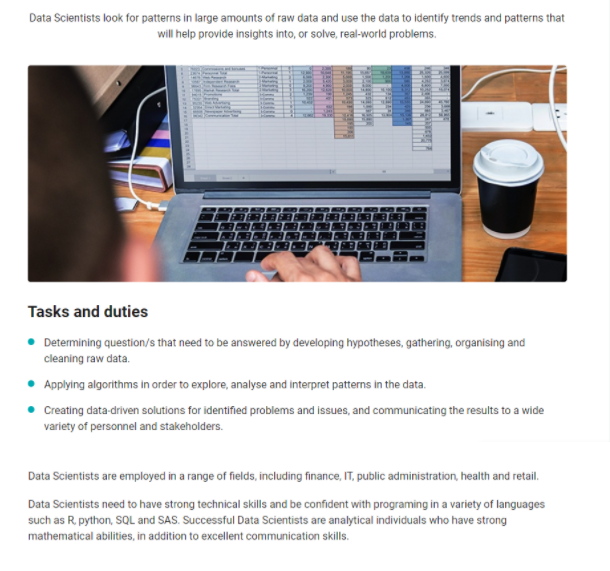
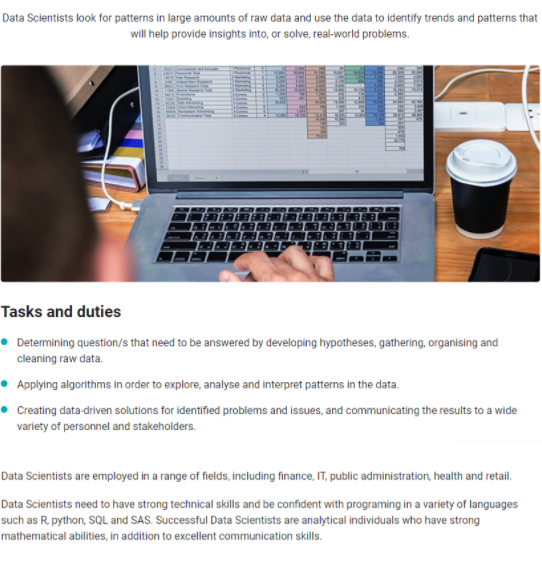
further page layout fixes

diff --git a/projectidea.html b/projectidea.html
@@ -1,39 +1,46 @@
+<html>
 <body>
   <h1> What's my project idea? </h1>
-  <p>My project is to create an atmosphere generator. This will generally be used for the sake of mental health and relaxation, and will work primarily through stimulation of one’s hearing, and potentially sight and touch. The atmosphere generator will most likely take on a form similar to that of common voice-activated speakers such as the Google Home, or the Echo Dot, and will have similar permissions related to smart home technology, such as access to lights and windows/glass to accomplish its task. Additionally, it will have access to its users vitals, and multiple users will each have their own profile registered. The most attractive point of this product should be its ability to generate atmosphere profiles unique to its user’s needs and preferences, and to negate unpleasant stimuli through noise cancellation or distraction.
+  <p><canvas id="myCanvas" width="200" height="2000" style="float:left;"></canvas><canvas id="myCanvas" width="200" height="2000" style="float:right;"></canvas>
+My project is to create an atmosphere generator. This will generally be used for the sake of mental health and relaxation, and will work primarily through stimulation of one’s hearing, and potentially sight and touch. The atmosphere generator will most likely take on a form similar to that of common voice-activated speakers such as the Google Home, or the Echo Dot, and will have similar permissions related to smart home technology, such as access to lights and windows/glass to accomplish its task. Additionally, it will have access to its users vitals, and multiple users will each have their own profile registered. The most attractive point of this product should be its ability to generate atmosphere profiles unique to its user’s needs and preferences, and to negate unpleasant stimuli through noise cancellation or distraction.
+<br><br><br>
 </p>
 <h2> What for? </h2>
 <p>Mental health disorders are extremely common, with some reports stating that up to a third of any population will experience an anxiety disorder at some point of their life. Despite this, the most optimistic statistics demonstrate that only a third of these people will report their symptoms, with the most grave reports stating that only a tenth of people will admit to their sufferings. This doesn’t even include other mental health issues such as depression, or conditions such as autism that can induce similar stress upon an individual.
-<br>
+<br><br><br>
 The amount of stigma revolving around mental health has resulted in a population that is afraid of admitting that they are unwell, that they need professional treatment. This product, while not being a form of professional help, aims to soothe the ails of those who recognise their mental health is dipping in quality. By creating a sense of familiarity and thus comfort for its user, and cancelling out sources of agitation in the environment, this product aims to be an anchoring point for those who feel as though the currents of the world are overwhelming them.
+<br><br><br>
 </p>
-<h3> Exactly what will it do? </h3>
+<h2> Exactly what will it do? </h2>
 <p>The product will generate ambience and visual stimuli to create an atmosphere for its user. The audio aspect will initially only have a default series of ambient stimuli, a selection of noises and sounds that are commonly appreciated by those who utilise ambient therapy. Potential candidates for these default options include but are not limited to rainfall, ocean sounds, forest sounds and basic white noise. Both speaker and headphones are options for this component.
-<br>
+<br><br><br>
 As the product is used, it will introduce slight variations on the sounds, branching from what is commonly selected, along with what can be heard in the room/environment it has been placed in, and identify what kinds of variations create the best results in its users vitals for the sake of relaxation. For example, if a user’s most frequently selected options are rainfall and forest sounds, it will learn to merge the two kinds of sounds to create something akin to a rainforest. If the user selects white noise the most often, it may start leaning into more non-diegetic sound types, such as different sources of white noise, or even music.
-<br>
+<br><br><br>
 The user can also choose to introduce their own sound samples, acoustically or digitally, to accelerate the development of their sound profile, or to override the direction it grows in. These variations will be remembered and stored, and it will aim to constantly develop these noises to further the effectiveness of the ambient therapy. This means that not only will it become more effective as it sees more use, but that it will also have a natural variation to the sounds that would not be found in the noise samples that one might find on an online ambient therapy site.
-<br>
+<br><br><br>
 To complement the sound whitelist, even when not being used to actively generate an atmosphere, the user can have it switch modes to make entries to a sound blacklist. This mode will listen to the types of sounds that the user experiences in their day-to-day life, and will remember what kinds of noises generate anxiety by recognising patterns and correlations between certain sound profiles and agitation in the user’s vitals. When it develops a profile of blacklisted sound profiles, it will modulate its own ambience by avoiding these types of sounds, and introducing sounds that will negate anxiety-inducing environmental stimuli through frequency/sound wave theory.
-<br>
+<br><br><br>
 By remembering and storing these atmospheric profiles that cater to an individuals needs, it develops a sense of familiarity. It also provides a sense of effortless control, in that it detects what the individual’s needs are, while also respecting any foreign customisations that the user actively chooses to introduce. Familiarity and a sense of control in the way this product’s stimuli changes and develops over time are the cornerstones in this product’s ability to complete its task.
-<br>
+<br><br><br>
 It will also have a 360 degree projector on it, displaying slow-moving visuals on the walls of the room. This can be activated independently from the sound generating component. This can serve those who are particularly receptive to visual stimuli. Additional modifications to its atmospheric manipulation can be present if it has access to smart home features. By reading the oxygen levels, temperature, and light levels of the room, it can adjust various parts of the home such as lights and windows to augment the immersiveness of the atmosphere it generates, or to bring greater comfort to its user.
-<br>
+<br><br><br>
 While this product may initially feel lacklustre and require effort to set up, its ability to learn should result in an experience that continues to improve with every use.
+<br><br><br>
 </p>
-<h4> What would I need to complete this project? </h4>
+<h2> What would I need to complete this project? </h2>
 <p>
 For this product to function, it would require artificial intelligence for its core function, along with a powerful speaker and high quality headphone jack, along with a sensitive microphone. A projector would be required for the visual component, along with the various metric readers for it to detect vitals and room conditions. It would need to have access to some kind of database for it to store its user and sound profiles, along with access to a large bank of sounds to play. Internet access would most likely be required for this product to be remotely practical, considering the vast range of sounds it could potentially need to play.
-<br>
+<br><br><br>
 Thorough understanding of the way machine learning and AI works would be fundamental to this speaker’s ability to adapt and cater to individual tastes and preferences. A thorough grasp on the theory behind soundwaves and the way different frequencies interact with each other, for the sake of cancelling out sounds, or to work in tandem with one another, will also be important knowledge to avoid dissonance and careless generation of sounds that could potentially cause greater disturbance in the user. More importantly, I’d have to know how to introduce this knowledge to the AI. Knowing how to connect this device to the internet, and teaching it to recognise different categories of sounds will also be required.
-<br>
+<br><br><br>
 While artificial intelligence and machine learning are not particularly foreign concepts nowadays, the complexity of this project will most likely require special efforts beyond a standard Information Technology course. For the soundbank, collaboration with a preexisting one may be a viable option.
+<br><br><br>
 </p>
-<h5> What do I hope to achieve with this? </h5>
+<h2> What would this accomplish? </h2>
 <p>
 If such a project were to be successful, people who use it would find their overall mental health improving. People could use this to help themselves regain their footing when overwhelmed by their surroundings, reducing symptoms of anxiety disorders and acting as a counter to those who find themselves becoming too neurotic, even if they didn’t feel that they were “suffering enough” to seek professional help.
-<br>
+<br><br><br>
 The strength in this as a form of therapy comes from the fact that it does not imply judgement in the way a living, breathing human might have. People who are not yet able to overcome their fears of being judged for seeking help from professionals will find comfort in the balanced neutrality of a machine. This first step in self care may be enough to help users realise that they do deserve help and care from other people as well, and potentially raise the amount of people willing to report their illnesses.
 </p>
 </body>
+</html>

diff --git a/idealjob.html b/idealjob.html
@@ -1,16 +1,22 @@
 <html>
 <body>
   <h1> My Ideal Job </h1>
-  <p><canvas id="myCanvas" width="200" height="2000" style="float:left;"></canvas><canvas id="myCanvas" width="200" height="2000" style="float:right;"></canvas>
+  <p><canvas id="myCanvas" width="200" height="1350" style="float:left;"></canvas><canvas id="myCanvas" width="200" height="1350" style="float:right;"></canvas>
 
     My ideal job would be as a data scientist.
+    </p>
     <br>
     <img src="DataScientist.png">
     <br>
+    <h2>What does a data scientist do?</h2>
+    <p><br>
     As a data scientist, you’re looking at numbers that have an actual place in the real world, analysing figures that have a tangible presence, affect each other, and affect numbers you didn’t even know you were supposed to look at in the first place. High schoolers always complain about the lack of real world application in maths. Myself included.
 <br><br><br>
-As a data scientist, you’re coming up with reasons for certain trends by reading numbers. You have to know what values to pay attention to, if you want to get the right conclusion. You become part of the brain of your organisation, tell them what’s happening, why they’re succeeding, why they’re failing, what people like and what they dislike. The analysis-heavy aspect alone is extremely attractive to me, and that there is an actual problem-solving component coupled with the reading part makes it even better.
+Part of the job is generating hypotheses for certain trends by reading numbers. You have to know what values to pay attention to, if you want to get the right conclusion. You become part of the brain of your organisation, tell them what’s happening, why they’re succeeding, why they’re failing, what people like and what they dislike. The analysis-heavy aspect alone is extremely attractive to me, and that there is an actual problem-solving component coupled with the reading part makes it even better.
 <br><br><br>
+</p>
+<h2>What does it take to be a data scientist?</h2>
+<p><br>
 As a data scientist, basic computer literacy is no longer enough. Proficiency in programming with a large variety of languages is required to accomplish your tasks, whether that’s to code something to help you gather your data, or even just understanding the language your database runs with. Additionally, there is a bonus to having a strong foundation in mathematics and the ability to deliver information in a manner that is digestible to an audience that may not necessarily have the same fluency in the topic.
 <br><br><br>
 Other skills that employers will look for in a data scientist include fluency with cloud computing, the ability to create statistical models, and potentially understanding of the workings behind machine learning.

diff --git a/interestinit.html b/interestinit.html
@@ -1,7 +1,9 @@
 <html>
 <body>
   <h1> My Interest in IT </h1>
-  <p><canvas id="myCanvas" width="200" height="2000" style="float:left;"></canvas><canvas id="myCanvas" width="200" height="2000" style="float:right;"></canvas>
+  <canvas id="myCanvas" width="200" height="1000" style="float:left;"></canvas><canvas id="myCanvas" width="200" height="1000" style="float:right;"></canvas>
+<h2> How did it start? </h2>
+<p><br>
     Initially, my engagement with IT was limited to whatever was directly involved with computer games, and even then, it was a shallow interest. To begin with, I had little understanding of what aspects of IT would even be relevant in a computer game. Honestly, I probably only thought I liked it because it was so easy in primary school. At best, I liked the idea of IT, but if 2010 Kerry looked at what I was actually doing now, in an actual IT course, she’d probably throw up.
 <br><br><br>
 My curiosity for the topic only truly began back in 2016, when I was made aware of what kind of monstrous entity the entire branch of IT really was. I happened upon an article that provided me a hypothetical sneak peek of a future that had its foundations deeply rooted into IT.
@@ -16,6 +18,8 @@ Come the end of Year 12, I’m panicking because I have to finalise my path for 
 <br><br><br>
 When I was switching courses, I’d found that at the very least, I’d appreciated the overall culture and attitude that the teachers had during my experience so far. Everyone was open-minded and accepting, and even if my lecturers weren’t talking about IT, I felt that the overall attitude they had would translate well to other areas of discussion. I can’t predict for sure that every lecturer in every class would be the same, but so far, so good.
 <br><br><br>
+<h2> What else am I hoping to learn about now? </h2>
+<p><br>
 Aside from that expectation, I’m hoping to hear more discussions about the fantastical parts of IT, the things that we think are pushing the limits of human creativity and imagination, yet come tangibly closer to reality each day. Although I currently have no intention to branch my career out in that direction, I’d love to hear what my peers know of, and what the world has come up with so far.
 <br><br><br>
 For something a bit more grounded in reality, I’d like to know more about working with data. How to compile and store it, how to read it, how to transform it into digestible information, and communicating that information. So far, I’ve only gotten a brief taste of it in Informatics and I wouldn’t mind a career based on analysing data. Taste acquired!

diff --git a/personalitytestresults.html b/personalitytestresults.html
@@ -2,8 +2,12 @@
 <body>
   <h1> What kind of personality do I have? </h1>
 
-  <p><canvas id="myCanvas" width="200" height="2700" style="float:left;"></canvas><canvas id="myCanvas" width="200" height="2700" style="float:right;"></canvas>
+
+<canvas id="myCanvas" width="200" height="2700" style="float:left;"></canvas><canvas id="myCanvas" width="200" height="2700" style="float:right;"></canvas>
+<h2> What do personality tests say about me? </h2>
+<p>
 <img src="LearningStyle.png"></img>
+<br>
 My learning style relies heavily on visual observation and kinetic interactions. In a group setting, this translates to a difficulty to maintain my engagement if there is no visual stimuli or hands-on experiences, which would require additional effort from whoever is speaking to me.
 <br><br><br>
 However, it also means that I will apply my visual tendencies to my means of communication, and provide demonstrations and examples/applications of my contention, resulting in stronger, more vivid presentations when I am communicating to an audience, or to my group members.
